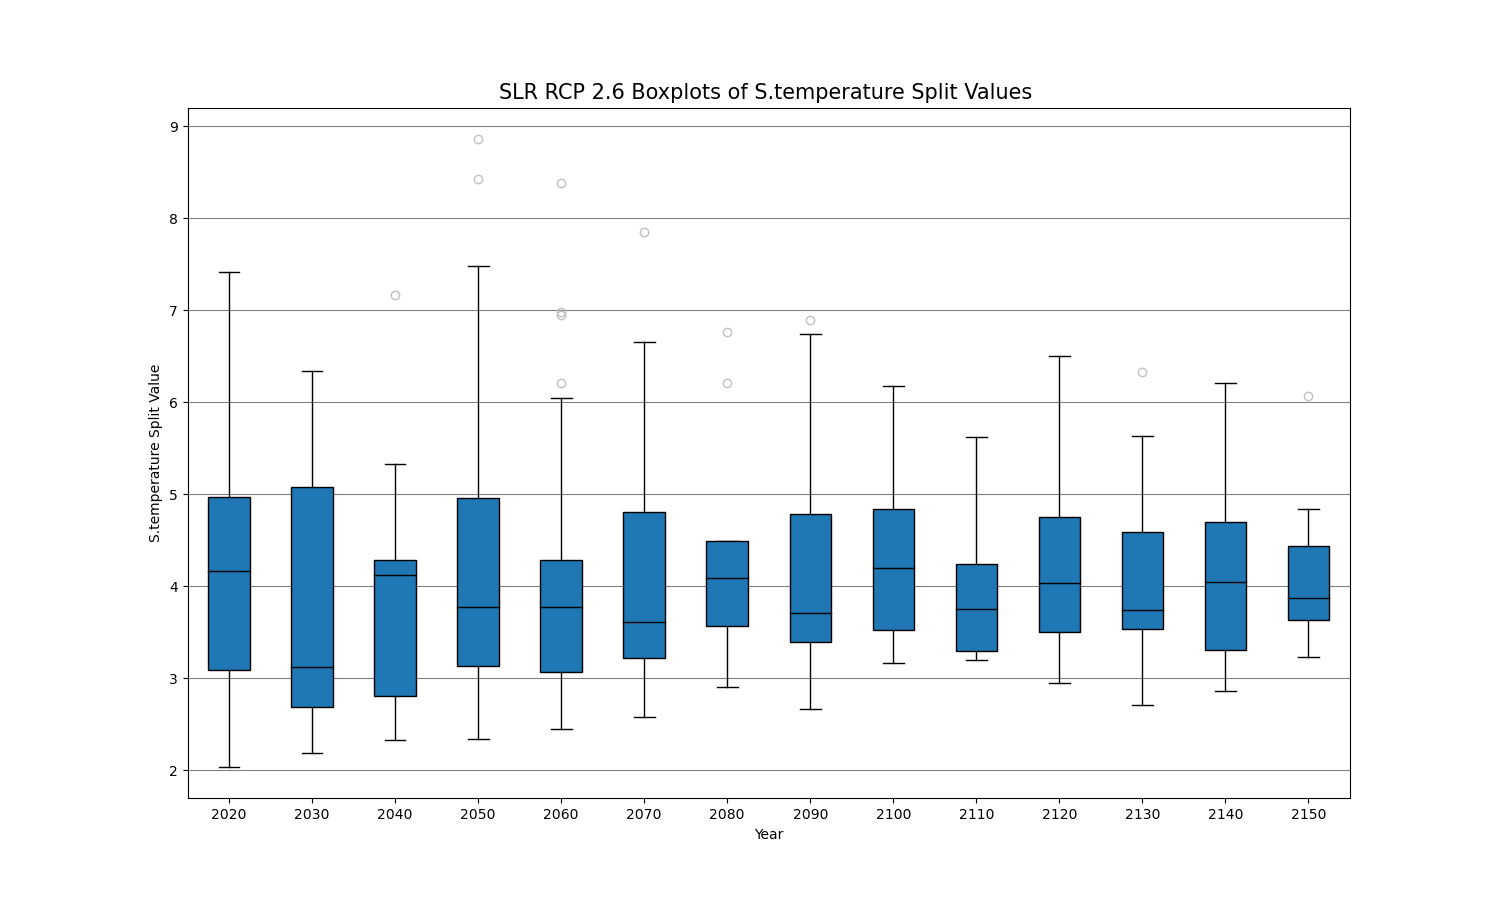
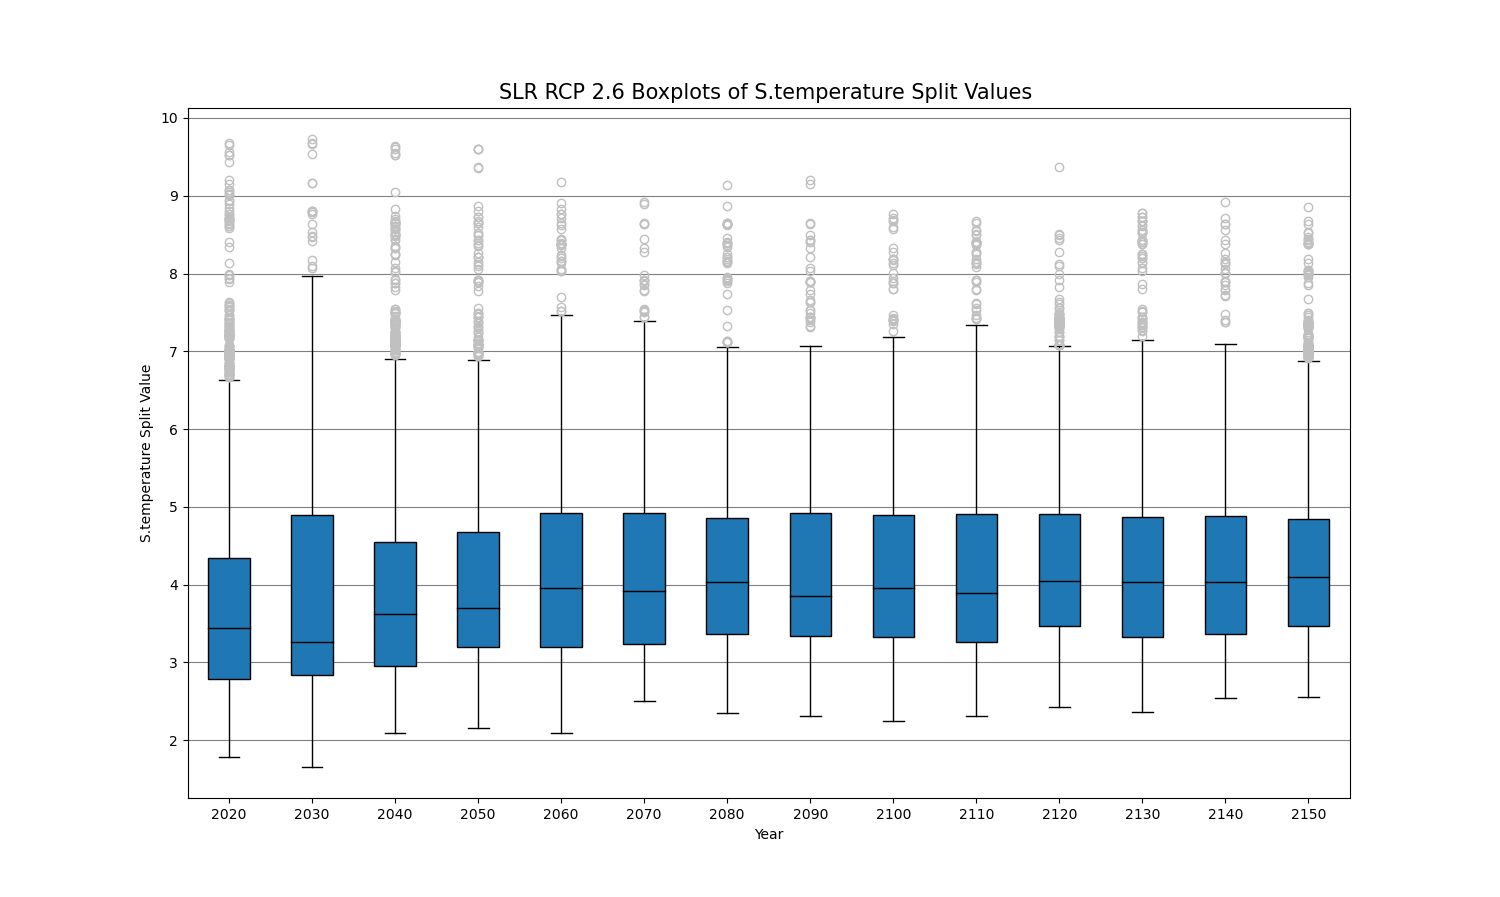
fixed dropna issue in Stemp_boxplots()

diff --git a/python_code/sklearn_slr_classification.py b/python_code/sklearn_slr_classification.py
@@ -805,7 +805,7 @@ def Stemp_boxplots(year_list, rcp, first_only=False, show_outliers=False):
     else:
         split_str = ""
         for df in split_df_list:
-            split_list.append(df.dropna().stack().tolist())
+            split_list.append(df.stack().tolist())
     fig, ax = plt.subplots()
     ax.boxplot(split_list, showfliers=show_outliers, patch_artist=True, medianprops=dict(color="black"),
                flierprops=dict(markeredgecolor='silver'), labels=[str(yr) for yr in year_list])
@@ -959,7 +959,7 @@ if __name__ == '__main__':
     #path = "../data/new_csv/SLR_splits/classification_forest/"
     #tree_splits(df, "SLR", "RCP 2.6", rcp26_forest_list_10yrs, list_10_yrs, path)
     #tree_splits(df, "SLR", "RCP 8.5", rcp85_forest_list_10yrs, list_10_yrs, path)
-    #Stemp_boxplots(list_10_yrs, "RCP 8.5", first_only=False, show_outliers=True)
+    Stemp_boxplots(list_10_yrs, "RCP 2.6", first_only=False, show_outliers=True)
 
 
     # compare accuracies for max_features = sqrt and max_features = 38
@@ -980,4 +980,4 @@ if __name__ == '__main__':
     #comparison_df.to_csv("../data/new_csv/max_features_comparison_accuracies.csv", index=False)
 
     #Stemp_max_split_histogram([2020, 2050, 2070, 2100, 2120, 2150], "RCP 8.5")
-    Stemp_histograms([2020, 2050, 2070, 2100, 2120, 2150], "RCP 8.5", first_only=True)
+    #Stemp_histograms([2020, 2050, 2070, 2100, 2120, 2150], "RCP 8.5", first_only=True)
